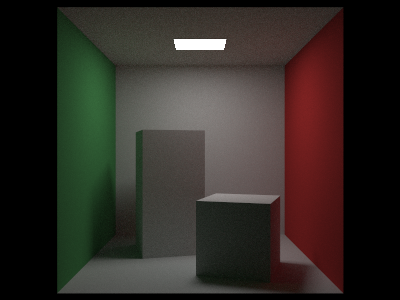
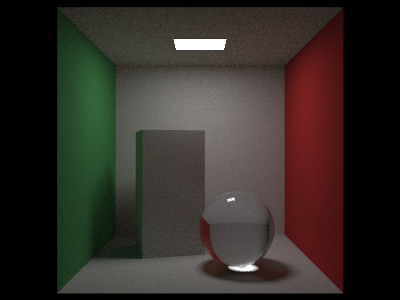
finished chapter 10

Changed region(s): [[0.48, 0.63, 0.81, 0.99]]

diff --git a/src/core/material.py b/src/core/material.py
@@ -8,6 +8,16 @@ from abc import ABC,abstractmethod
 import random
 
 
+class scatter_rec(ABC):
+	def __init__(self,specular: ray = ray(vec3(0.0,0.0,0.0),vec3(0.0,0.0,0.0)),
+					  is_specular: bool = False,attenuation: vec3 = vec3(0,0,0),
+					 prob_density: pdf = None): 
+		self.specular = specular
+		self.is_specular = is_specular
+		self.attenuation = attenuation
+		self.prob_density = pdf 
+
+
 '''
 reflectivity polynomial appoximation
 by Christophe Schlick
@@ -50,7 +60,7 @@ class material(ABC):
 	'''
 	returns whether we scatter, along with scattered spectra and attentuated spectra
 	'''
-	def scatter(r_in: ray, rec):
+	def scatter(r_in: ray, hrec):
 		return False,(0,0,0)
 	'''
 	base function so non-emissive materials don't emit anything
@@ -71,19 +81,18 @@ class lambertian(material):
 			cosine = 0.0
 		return cosine/math.pi
 	# now returns True, (scattered,albedo and pdf)
-	def scatter(self,r_in: ray, rec):
-		#uvw = onb()
-		self.uvw.build_from_w(rec.normal)
-		direction = self.uvw.local(random_cosine_direction())
-		scattered = ray(rec.p,unit_vector(direction),r_in.time)
-		alb = self.albedo.value(rec.u,rec.v,rec.p)
-		pdf = (self.uvw.axis[2].dot(scattered.direction)) / math.pi
-		return True,(scattered,alb,pdf)
-		# target = rec.p + rec.normal + random_unit_sphere()
-		# scattered = ray(rec.p,unit_vector(target-rec.p),r_in.time)
+	def scatter(self,r_in: ray, hrec):
+		# self.uvw.build_from_w(rec.normal)
+		# direction = self.uvw.local(random_cosine_direction())
+		# scattered = ray(rec.p,unit_vector(direction),r_in.time)
 		# alb = self.albedo.value(rec.u,rec.v,rec.p)
-		# pdf = (rec.normal.dot(scattered.direction))/math.pi
-		# return True,(scattered,alb,pdf)
+		# pdf = (self.uvw.axis[2].dot(scattered.direction)) / math.pi
+		srec = scatter_rec()
+		srec.is_specular = False
+		srec.attenuation = self.albedo.value(hrec.u,hrec.v,hrec.p)
+		srec.prob_density = cosine_pdf(hrec.normal)	
+
+		return True,srec
 
 class metal(material):
 	def __init__(self,albedo: vec3,f: float = 0.0):
@@ -92,48 +101,56 @@ class metal(material):
 		else:
 			self.fuzz = 1.0
 		self.albedo = albedo
-	def scatter(self,r_in: ray, rec):
-		reflected = reflect(unit_vector(r_in.direction),rec.normal)
-		scattered = ray(rec.p,reflected + self.fuzz * random_unit_sphere(),r_in.time)
-		attenuation = self.albedo
-		return scattered.direction.dot(rec.normal) > 0,(scattered,attenuation)
+	def scatter(self,r_in: ray, hrec):
+		srec = scatter_rec()
+		reflected = reflect(unit_vector(r_in.direction),hrec.normal)
+		srec.specular_ray = ray(hrec.p,reflected + self.fuzz * random_unit_sphere())
+		srec.attenuation = self.albedo
+		srec.is_specular = True
+		srec.prob_density = 0.0
+		return True,srec
 
 class dielectric(material):
 	def __init__(self,ri: float):
 		self.ref_idx = ri
-	def scatter(self,r_in: ray, rec):
+	def scatter(self,r_in: ray, hrec):
+		srec = scatter_rec()
+		srec.is_specular = True
+		srec.prob_density = 0
+		srec.attenuation = vec3(1.0,1.0,1.0)
+
 		outward_normal = None
 		ni_over_nt = None
 		refracted = None;
 		scattered = None;
-		reflected = reflect(r_in.direction,rec.normal)
+		reflected = reflect(r_in.direction,hrec.normal)
 		attenuation = vec3(1.0,1.0,1.0)
 		reflect_prob = None
 		cosine = None
 
-		if(r_in.direction.dot(rec.normal) > 0):
-			outward_normal = -rec.normal
+		if(r_in.direction.dot(hrec.normal) > 0):
+			outward_normal = -hrec.normal
 			ni_over_nt = self.ref_idx
-			cosine = self.ref_idx * r_in.direction.dot(rec.normal) / r_in.direction.length()
+			cosine = self.ref_idx * r_in.direction.dot(hrec.normal) / r_in.direction.length()
 		else:
-			outward_normal = rec.normal
+			outward_normal = hrec.normal
 			ni_over_nt = 1.0/self.ref_idx
-			cosine = -r_in.direction.dot(rec.normal) / r_in.direction.length()
+			cosine = -r_in.direction.dot(hrec.normal) / r_in.direction.length()
 
 		if_refract,refracted = refract(r_in.direction,outward_normal,ni_over_nt)
 		if if_refract:
 			reflect_prob = schlick(cosine,self.ref_idx)
 			#scattered = ray(rec.p,refracted)
 		else:
-			scattered = ray(rec.p,reflected,r_in.time)
+			#scattered = ray(hrec.p,reflected,r_in.time)
 			reflect_prob = 1.0
 			#return False, (scattered,attenuation)
 		if random.random() < reflect_prob:
-			scattered = ray(rec.p,reflected,r_in.time)
+			srec.specular_ray = ray(hrec.p,reflected,r_in.time)
 		else: 
-			scattered = ray(rec.p,refracted,r_in.time)
+			srec.specular_ray = ray(hrec.p,refracted,r_in.time)
 
-		return True,(scattered,attenuation)
+		return True,srec
 
 '''
 

diff --git a/main.py b/main.py
@@ -18,26 +18,35 @@ import matplotlib.pyplot as plt
 import cProfile
 MAX_FLOAT = sys.float_info.max
 
-def color(r: ray, world: list,depth = 0,max_depth = 4):
-    rec = hit_record()
-    hit_anything,rec = hitable_list(world).hit(r,0.001,MAX_FLOAT)
+def de_nan(c: vec3): 
+    if math.isnan(c[0]):
+        c[0] = 0
+    if math.isnan(c[1]):
+        c[1] = 0
+    if math.isnan(c[2]):
+        c[2] = 0
+    return c 
+def color(r: ray, world: hitable, light_shape: hitable, depth = 0,max_depth = 4):
+    hit_anything,hrec = world.hit(r,0.001,MAX_FLOAT)
     if (hit_anything):
-        scattered = ray(vec3(0,0,0),vec3(0,0,0),0.0)
-        albedo = vec3(0,0,0)
-        pdf_val = 0.0
-        if_scatter,(scattered,albedo,pdf_val) = rec.mat.scatter(r,rec)
-        emitted = rec.mat.emitted(r,rec,rec.u,rec.v,rec.p)
+        #scattered = ray(vec3(0,0,0),vec3(0,0,0),0.0)
+        # albedo = vec3(0,0,0)
+        # pdf_val = 0.0
+        # if_scatter,(scattered,albedo,pdf_val) = rec.mat.scatter(r,rec)
+        emitted = hrec.mat.emitted(r,hrec,hrec.u,hrec.v,hrec.p)
+        print
+        if_scatter,srec = hrec.mat.scatter(r,hrec)
         if (depth < max_depth and if_scatter):
+            if srec.is_specular:
+                return srec.attenuation * color(srec.specular_ray,world,light_shape,depth + 1,max_depth)
+            plight = hitable_pdf(light_shape,hrec.p)
 
-            light_shape = xz_rect(213,343,227,332,554,0)
-            p0 = hitable_pdf(light_shape,rec.p)
-            p1 = cosine_pdf(rec.normal)
-            p = mixture_pdf(p0,p1)
-            scattered = ray(rec.p,p.generate(),r.time)
+            p = mixture_pdf(plight,srec.prob_density)
+            scattered = ray(hrec.p,p.generate(),r.time)
             pdf_val = p.value(scattered.direction)
-            scattering_pdf = rec.mat.scattering_pdf(r,rec,scattered)
+            scattering_pdf = hrec.mat.scattering_pdf(r,hrec,scattered)
 
-            return emitted + albedo * scattering_pdf * color( scattered,world,depth + 1,max_depth) / pdf_val
+            return emitted + srec.attenuation * scattering_pdf * color( scattered,world, light_shape, depth + 1,max_depth) / pdf_val
         else:
             return emitted
     else:
@@ -53,6 +62,9 @@ def main(filename: str = 'output',output_res: tuple = (200,100),num_samples= 100
     R = math.cos(math.pi/4)
     aspect_ratio = float(nx)/float(ny)
     hit_object_list,cam = cornell_box(aspect_ratio)
+    light_shape = xz_rect(213,343,227,332,554,0)
+    glass_sphere = sphere(vec3(190,90,190),90,0)
+    sample_list = hitable_list([light_shape,glass_sphere])
     #hit_object_list,cam = random_scene(aspect_ratio)
     seed = 123
     sampler = uniform_sampler_2D(seed)
@@ -68,7 +80,7 @@ def main(filename: str = 'output',output_res: tuple = (200,100),num_samples= 100
                     s = (i + u)/nx
                     t = (j + v)/ny
                     r = cam.get_ray(s,t)
-                    col += color(r,hit_object_list,depth = 0,max_depth = 4)
+                    col += de_nan(color(r,hitable_list(hit_object_list),sample_list,depth = 0,max_depth = 4))
                 col /= float(num_samples)
                 #col = vec3(math.sqrt(col[0]),math.sqrt(col[1]),math.sqrt(col[2]))
                 ir = 255.99 * math.sqrt(col[0]);
@@ -89,9 +101,9 @@ def main(filename: str = 'output',output_res: tuple = (200,100),num_samples= 100
 if  __name__ == "__main__":
     #main("./test_large",output_res = (800,800),num_samples = 1024)
     #main("./test_medium",output_res = (500,500),num_samples = 1024)
-    #main("./test_small",output_res = (400,300),num_samples = 1024)
-    #main("./test_large_imp",output_res = (1200,800),num_samples = 10)
     main("./test_small",output_res = (400,300),num_samples = 1024)
+    #main("./test_large_imp",output_res = (1200,800),num_samples = 10)
+    #main("./test_small",output_res = (400,300),num_samples = 256)
 
 
 

diff --git a/src/core/shape.py b/src/core/shape.py
@@ -3,6 +3,7 @@ from hitable import *
 import math
 from geometry import *
 from material import * 
+from random_functions import * 
 FLT_MAX = sys.float_info.max
 import random
 
@@ -20,6 +21,7 @@ class sphere(hitable):
 		self.center = center
 		self.radius = radius
 		self.mat = mat
+		self.uvw = onb()
 	def hit(self,r: ray , t_min: float,t_max: float):
 		rec = hit_record()
 		rec.mat = self.mat
@@ -51,8 +53,20 @@ class sphere(hitable):
 		box = aabb(self.center - vec3(self.radius,self.radius,self.radius),
 				  self.center + vec3(self.radius,self.radius,self.radius))
 		return (True,box);
-
-
+	def pdf_value(self,o: vec3, v: vec3):
+		rec = hit_record()
+		is_hit,rec = self.hit(ray(o,v),0.001,FLT_MAX)
+		if is_hit:
+			cos_theta_max = math.sqrt(1 - self.radius * self.radius/((self.center - o).squared_length()))
+			solid_angle = 2 * math.pi * (1-cos_theta_max)
+			return 1 / solid_angle
+		else:
+			return 0
+	def random_gen(self,o: vec3):
+		direction = self.center - o 
+		distance_squared = direction.squared_length()
+		self.uvw.build_from_w(direction)
+		return self.uvw.local(random_to_sphere(self.radius,distance_squared))
 
 
 class moving_sphere(hitable):
@@ -161,6 +175,8 @@ class xz_rect(hitable):
 		return (True,box)
 	def pdf_value(self,o: vec3, v: vec3):
 		rec = hit_record()
+		# print(o)
+		# print(v)
 		is_hit,rec = self.hit(ray(o,v),0.001,FLT_MAX)
 		if is_hit:
 			area = (self.x1-self.x0) * (self.z1-self.z0)

diff --git a/scenes.py b/scenes.py
@@ -103,11 +103,16 @@ def cornell_box(aspect_ratio):
     hit_object_list.append(yz_rect(0,555,0,555,0,mat_red))
     #flip normals on light so they point in -y direction
     hit_object_list.append(flip_normals(xz_rect(213,343,227,332,554,mat_light))) 
-    
+
     hit_object_list.append(flip_normals(xz_rect(0,555,0,555,555,mat_white)))
     hit_object_list.append(xz_rect(0,555,0,555,0,mat_white))
     hit_object_list.append(flip_normals(xy_rect(0,555,0,555,555,mat_white)))
-    hit_object_list.append(translate(rotate_y(box(vec3(0, 0, 0), vec3(165, 165, 165), mat_white),-18), vec3(130,0,65)))
+    #hit_object_list.append(translate(rotate_y(box(vec3(0, 0, 0), vec3(165, 165, 165), mat_white),-18), vec3(130,0,65)))
+
+    mat_glass = dielectric(1.5)
+    hit_object_list.append(sphere(vec3(190,90,190),90, mat_glass))
+
+    #mat_aluminum = metal(vec3(0.8,0.85,0.88),0.0)
     hit_object_list.append(translate(rotate_y(box(vec3(0, 0, 0), vec3(165, 330, 165), mat_white),15), vec3(265,0,295)))
 
     lookfrom = vec3(278,278,-800)

diff --git a/src/core/hitable.py b/src/core/hitable.py
@@ -6,12 +6,13 @@ from material import *
 from math import pi,sin,cos
 FLT_MAX = sys.float_info.max
 import copy 
+import random
 sys.setrecursionlimit(1500)
 
 '''
 replacement for hit_record struct 
 '''
-class hit_record:
+class hit_record(ABC):
 	def __init__(self,t: float = 0.0,p_vec: vec3 = vec3(0,0,0),
 					 normal: vec3 = vec3(0,0,0),mat = None,
 					 u: float = 0.0,v:float = 0.0):
@@ -112,6 +113,17 @@ class hitable_list(hitable):
 			else: 
 				return (False,box)
 		return (True,box)
+	def pdf_value(self,o: vec3,v: vec3):
+		weight = 1.0/len(self.object_list)
+		tot_sum = 0
+		for i in range(len(self.object_list)):
+			#print (self.object_list[i])
+			tot_sum += weight * self.object_list[i].pdf_value(o,v)
+		return tot_sum
+	def random_gen(self,o: vec3):
+		idx = int(random.random() * len(self.object_list))
+		return self.object_list[idx].random_gen(o)
+
 
 #returns x,y or z value of hitable to sort bvh depending on axis 
 def box_x_val(a: hitable):

diff --git a/src/core/random_functions.py b/src/core/random_functions.py
@@ -78,6 +78,17 @@ class mixture_pdf(pdf):
 		else:
 			return self.p[1].generate() 
 
+def random_to_sphere(radius: float, distance_squared: float): 
+	# print("radius: {}, distance_squared: {}" .format(radius,distance_squared))
+	# print("{}".format((radius ** 2)/distance_squared))
+	r1 = random.random()
+	r2 = random.random()
+	z = 1 + r2 * (sqrt(1 - (radius * radius)/distance_squared) - 1)
+	phi = 2 * pi * r1
+	x = cos(phi)*sqrt(1 - z * z)
+	y = sin(phi) * sqrt(1 - z * z)
+	return vec3(x,y,z)
+
 
 
 
